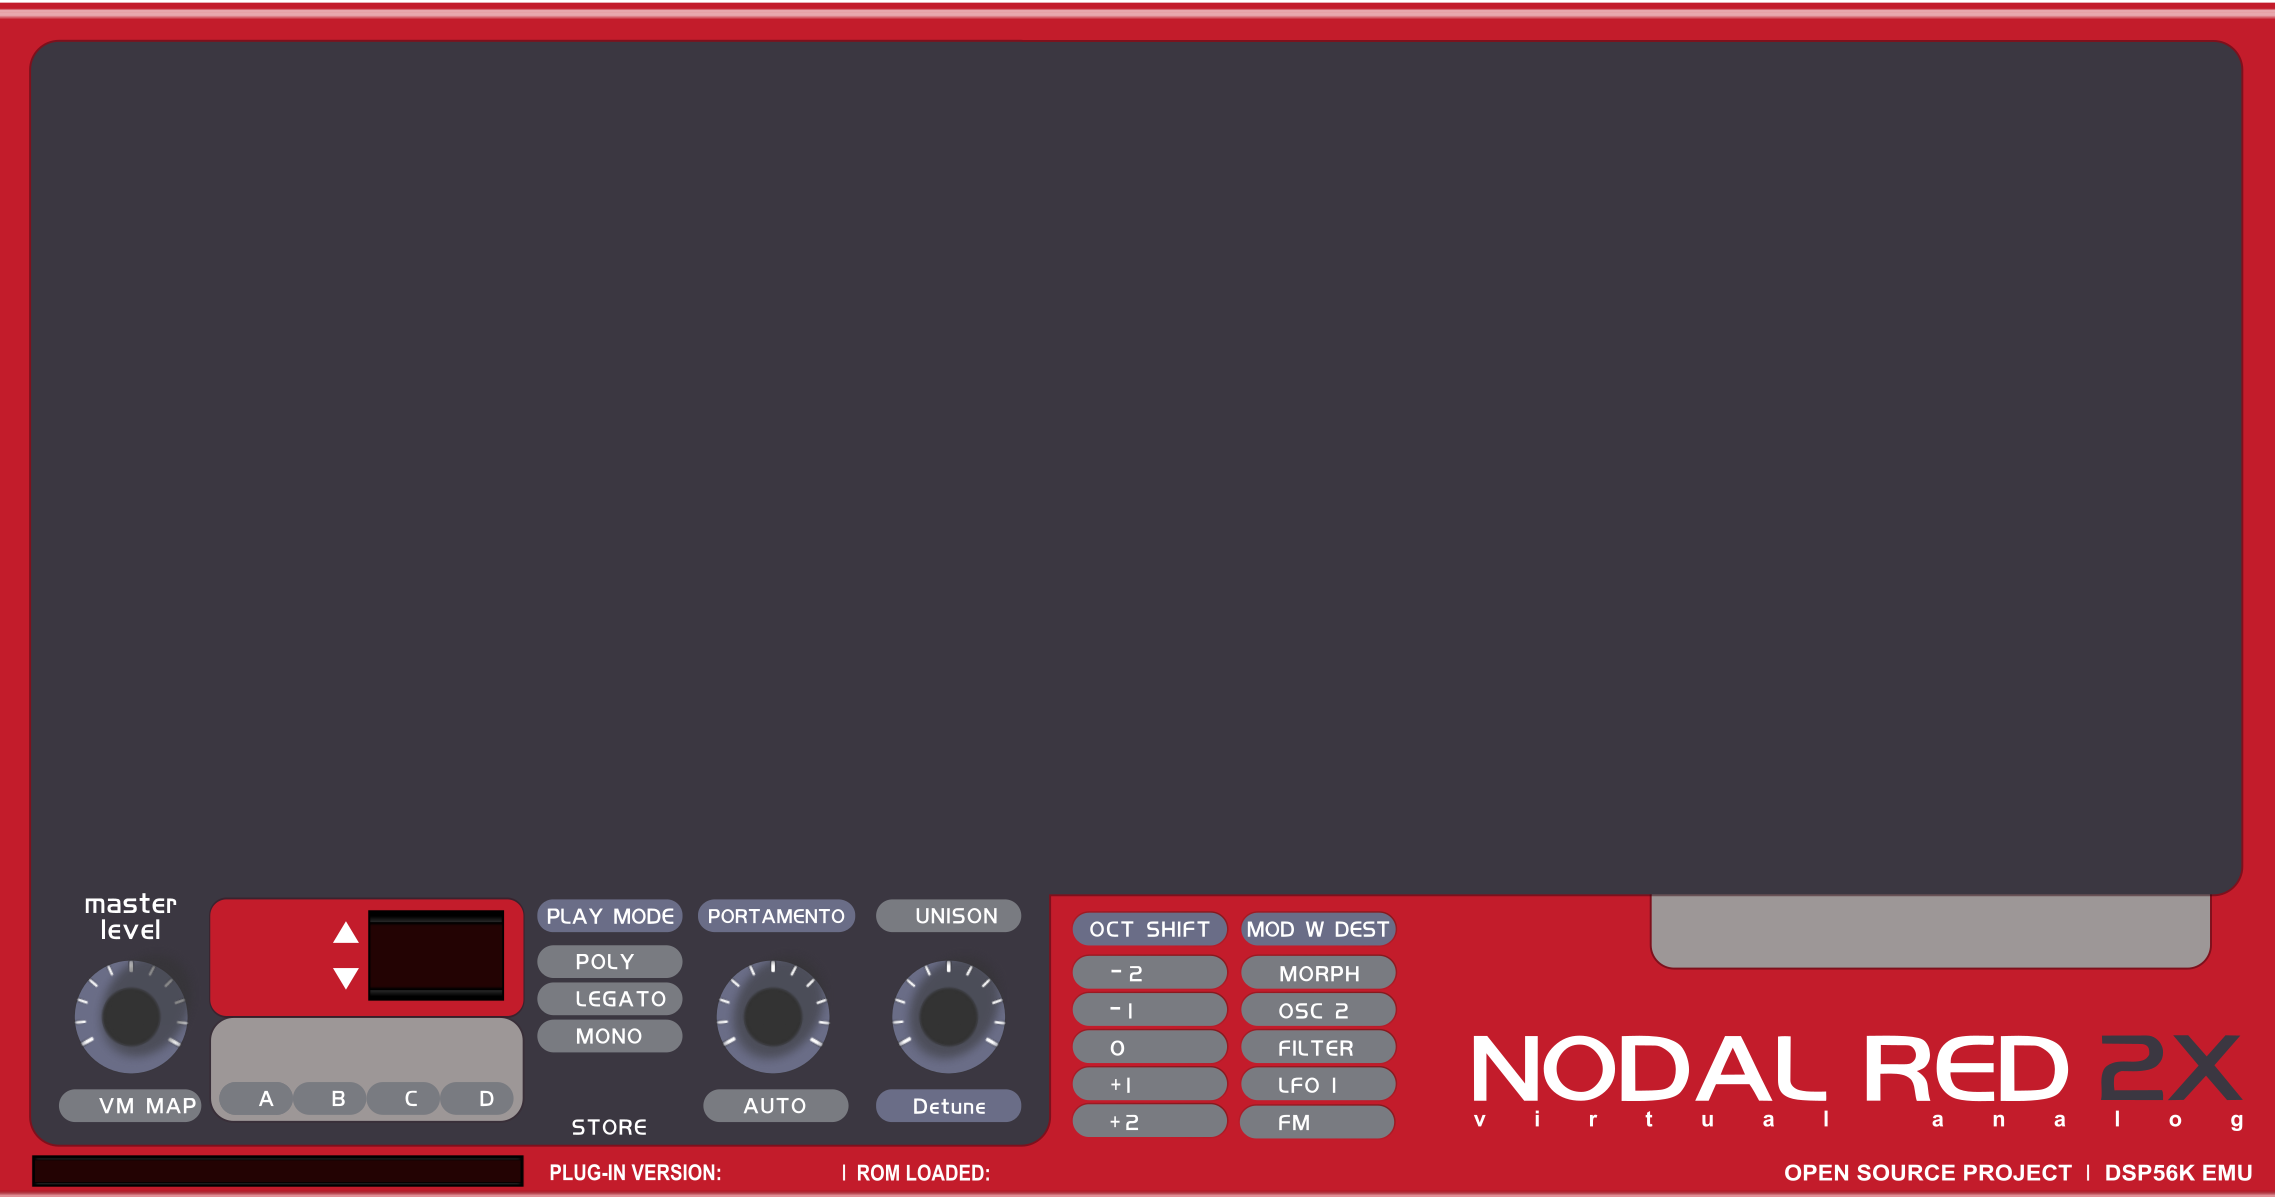
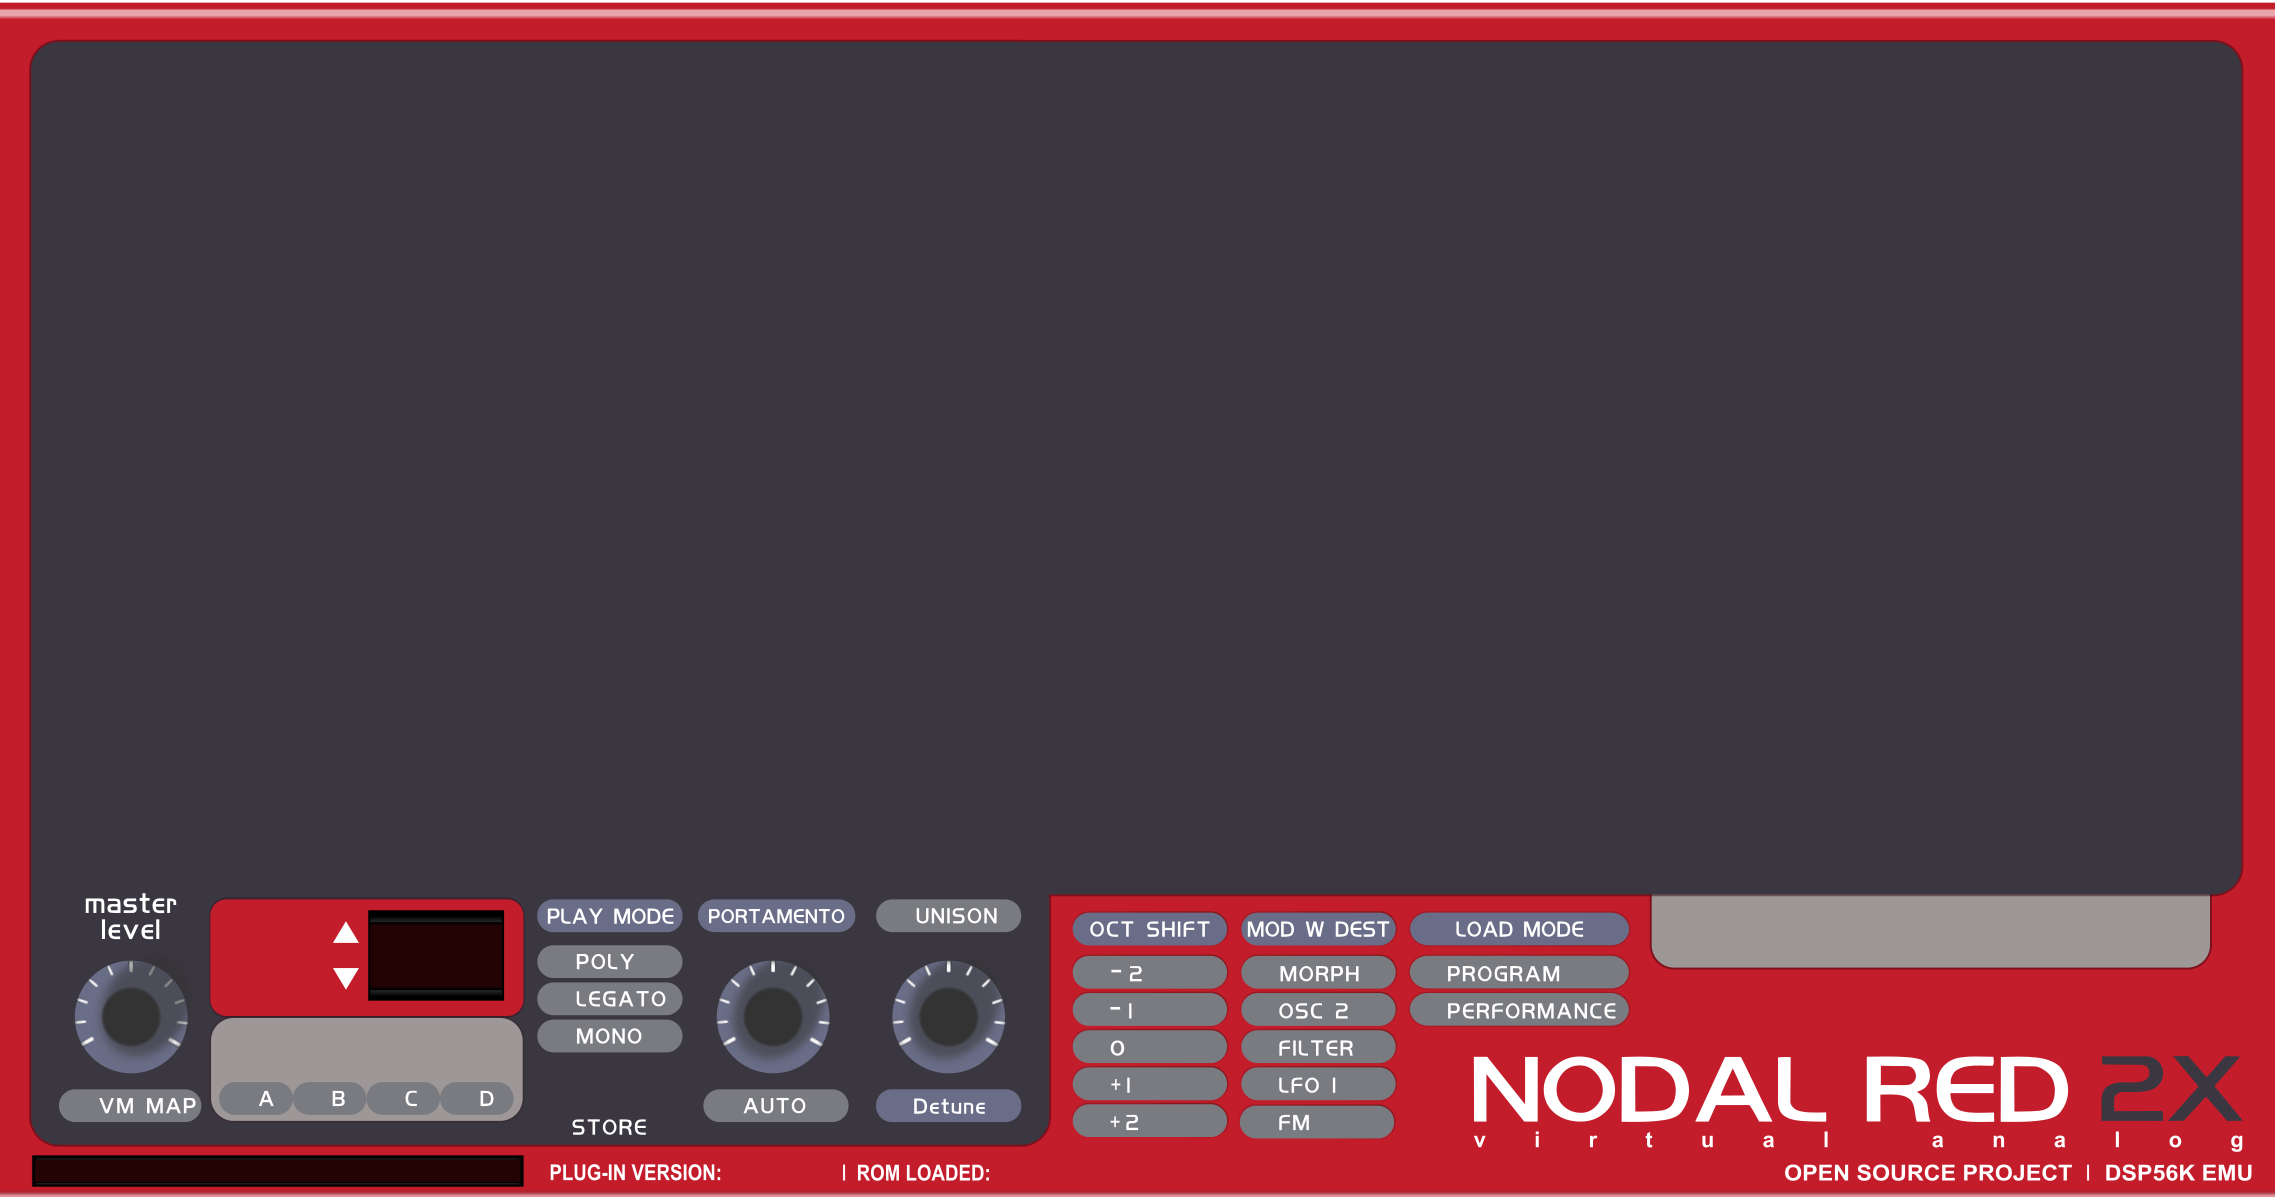
NodalRed2x: add Program/Performance mode toggle, update Trancy skin
BUG-10113: Loading patches could cause hanging presets because other
slots remained active. Added Program/Performance radio buttons to the
Trancy skin. In Program mode (default), loading a single patch via
the patch manager mutes all other slots. In Performance mode, the
previous behavior is preserved.

Changed region(s): [[0.6242, 0.7419, 0.9987, 0.9582]]

diff --git a/source/nord/n2x/n2xJucePlugin/n2xEditor.cpp b/source/nord/n2x/n2xJucePlugin/n2xEditor.cpp
@@ -19,7 +19,9 @@
 
 #include "jucePluginEditorLib/midiPorts.h"
 
+#include "jucePluginLib/parameter.h"
 #include "jucePluginLib/pluginVersion.h"
+#include "juceRmlUi/rmlElemButton.h"
 #include "juceRmlUi/rmlElemComboBox.h"
 
 #include "n2xLib/n2xdevice.h"
@@ -119,6 +121,24 @@ namespace n2xJucePlugin
 			const auto key = juceRmlUi::helper::getKeyModShift(_event);
 			getVmMap().setEnabled(key);
 		}, false);
+
+		m_btProgram = findChild<juceRmlUi::ElemButton>("Program", false);
+		m_btPerformance = findChild<juceRmlUi::ElemButton>("Performance", false);
+
+		if(m_btProgram && m_btPerformance)
+		{
+			setProgramMode(true);
+
+			juceRmlUi::EventListener::Add(m_btProgram, Rml::EventId::Click, [this](Rml::Event&)
+			{
+				setProgramMode(true);
+			});
+
+			juceRmlUi::EventListener::Add(m_btPerformance, Rml::EventId::Click, [this](Rml::Event&)
+			{
+				setProgramMode(false);
+			});
+		}
 	}
 
 	jucePluginEditorLib::patchManager::PatchManager* Editor::createPatchManager(Rml::Element* _parent)
@@ -184,6 +204,24 @@ namespace n2xJucePlugin
 				getPatchManager()->setSelectedPatch(p, _patch);
 			}
 		}
+		else if(m_programMode)
+		{
+			// Defer MIDI channel muting until after the dump response is received,
+			// so the internal state is up-to-date before a multi dump is sent
+			const auto part = static_cast<uint8_t>(_part);
+			m_onProgramChangedForMute.set(m_controller.onProgramChanged, [this, part]()
+			{
+				constexpr const char* midiChParams[] = {"PerfMidiChannelA", "PerfMidiChannelB", "PerfMidiChannelC", "PerfMidiChannelD"};
+				for(uint8_t p = 0; p < 4; ++p)
+				{
+					if(p == part)
+						continue;
+					if(auto* param = m_controller.getParameter(midiChParams[p], 0))
+						param->setUnnormalizedValueNotifyingHost(16, pluginLib::Parameter::Origin::Ui);
+				}
+				m_onProgramChangedForMute.reset();
+			});
+		}
 
 		m_lcd->updatePatchName();
 	}
@@ -238,5 +276,15 @@ namespace n2xJucePlugin
 
 		if(const auto patch = source->getPatch(_patchKey))
 			setCurrentPatchName(_part, patch->getName());
+	}
+
+	void Editor::setProgramMode(const bool _programMode)
+	{
+		m_programMode = _programMode;
+
+		if(m_btProgram)
+			m_btProgram->setChecked(_programMode);
+		if(m_btPerformance)
+			m_btPerformance->setChecked(!_programMode);
 	}
 }

diff --git a/source/nord/n2x/n2xJucePlugin/n2xEditor.h b/source/nord/n2x/n2xJucePlugin/n2xEditor.h
@@ -11,6 +11,11 @@ namespace jucePluginEditorLib
 	class Processor;
 }
 
+namespace juceRmlUi
+{
+	class ElemButton;
+}
+
 namespace n2xJucePlugin
 {
 	class Part;
@@ -84,6 +89,7 @@ namespace n2xJucePlugin
 		void onBtNext(Rml::Event&) const;
 		void setCurrentPatchName(uint8_t _part, const std::string& _name);
 		void onSelectedPatchChanged(uint8_t _part, const pluginLib::patchDB::PatchKey& _patchKey);
+		void setProgramMode(bool _programMode);
 
 		Controller& m_controller;
 
@@ -103,5 +109,10 @@ namespace n2xJucePlugin
 		std::array<std::string, 4> m_activePatchNames;
 
 		baseLib::EventListener<uint32_t, pluginLib::patchDB::PatchKey> m_onSelectedPatchChanged;
+
+		bool m_programMode = true;
+		juceRmlUi::ElemButton* m_btProgram = nullptr;
+		juceRmlUi::ElemButton* m_btPerformance = nullptr;
+		baseLib::EventListener<> m_onProgramChangedForMute;
 	};
 }
